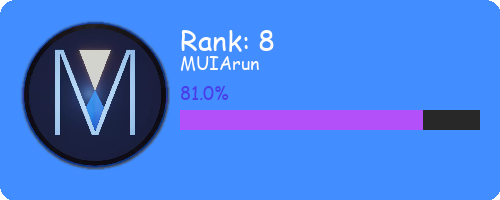
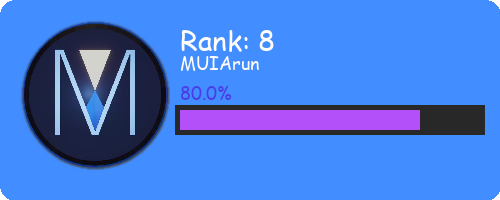
XP bar of card has a border. Looks very nice

Changed region(s): [[0.33, 0.42, 0.99, 0.69]]

diff --git a/imaging.py b/imaging.py
@@ -52,8 +52,10 @@ def makeRankCard(profile_url,rank,percentage_to_rank,name=""):
     card = Image.new(mode="RGB",size=(500,200),color=bg_colour)
     card = add_corners(card,card,rad=15)
     #card.show()
+    #ppBorder = mask_circle_solid(Image.new("RGB",(160,160),grey_colour),bg_colour,1)
     profilePic = mask_circle_solid(profilePic, bg_colour, 1)
 
+    #card.paste(ppBorder,(15,15))
     card.paste(profilePic,(20,20))
     #card.show()
 
@@ -66,11 +68,11 @@ def makeRankCard(profile_url,rank,percentage_to_rank,name=""):
     #card.show()
 
     print("Percentage to rank "+str(percentage_to_rank))
-    barBackground = Image.new(mode="RGB", size=(300, 20), color=grey_colour)
+    barBackground = Image.new(mode="RGB", size=(310, 30), color=grey_colour)
     #barBackground = add_corners(barBackground, barBackground, rad=10)
     barOverlay = Image.new(mode="RGB", size=(round(300*percentage_to_rank/100), 20), color=alt_colour)
     #barOverlay = add_corners(barOverlay, barOverlay, rad=10)
-    card.paste(barBackground,(180,110))
+    card.paste(barBackground,(175,105))
     card.paste(barOverlay,(180,110))
     card.save("card.png")
 
